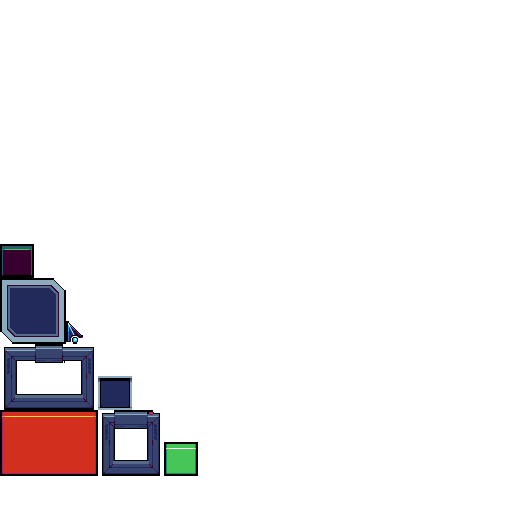
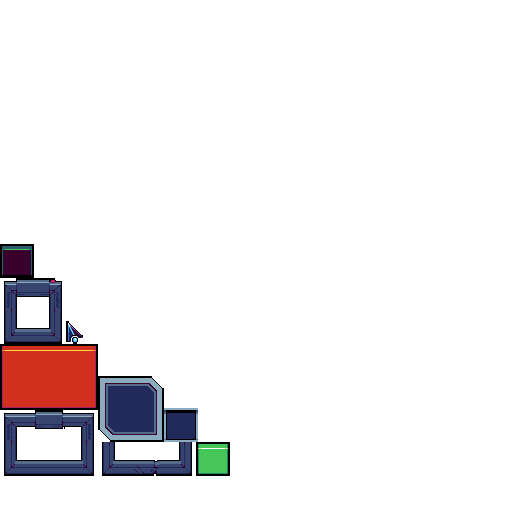
working score display

Changed region(s): [[0.0, 0.5312, 0.4688, 0.9375]]

diff --git a/frontend/core/src/main/java/pdg/game/Score.java b/frontend/core/src/main/java/pdg/game/Score.java
@@ -1,0 +1,202 @@
+package pdg.game;
+
+import com.badlogic.gdx.Gdx;
+import com.badlogic.gdx.graphics.Texture;
+import com.badlogic.gdx.graphics.g2d.NinePatch;
+import com.badlogic.gdx.scenes.scene2d.ui.Image;
+import com.badlogic.gdx.scenes.scene2d.ui.Label;
+import com.badlogic.gdx.scenes.scene2d.ui.Skin;
+import com.badlogic.gdx.scenes.scene2d.ui.Table;
+import com.badlogic.gdx.scenes.scene2d.ui.Window;
+import com.badlogic.gdx.scenes.scene2d.utils.NinePatchDrawable;
+
+public class Score extends Table {
+
+  private Window window;
+  private Table content;
+
+  private Image[] scoreDisplay1;
+  private Image[] scoreDisplay2;
+
+  private int scoreValue1 = 0;
+  private int scoreValue2 = 0;
+
+  private Texture scoreTexture;
+
+  private final int padding = 40;
+
+  public Score() {
+    this("Player1", "Player2", 2);
+  }
+
+  public Score(String p1, String p2, int width, int height, int nbManches) {
+    this(p1, p2, nbManches);
+    setSize(width, height);
+  }
+
+  public Score(String p1, String p2, int nbManches) {
+
+    // =========================
+    // SKIN
+    // =========================
+
+    Skin skin = new Skin(Gdx.files.internal("futuristic_ui/uiskin.json"));
+
+    // =========================
+    // WINDOW
+    // =========================
+
+    window = new Window("", skin, "score");
+    window.setMovable(false);
+
+    // =========================
+    // BACKGROUND
+    // =========================
+
+    Texture frameTexture =
+        new Texture(Gdx.files.internal("gui/frame_background/border_frame.9.png"));
+
+    NinePatch ninePatch = new NinePatch(frameTexture, 10, 10, 10, 10);
+
+    Table windowContent = new Table();
+    windowContent.setBackground(new NinePatchDrawable(ninePatch));
+
+    // =========================
+    // TABLES
+    // =========================
+
+    content = new Table();
+
+    Table players = new Table();
+    Table scores = new Table();
+
+    Table score1 = new Table();
+    Table score2 = new Table();
+
+    // =========================
+    // LABELS
+    // =========================
+
+    Label player1 = new Label(p1, skin);
+    Label player2 = new Label(p2, skin);
+    Label timer = new Label("0:00", skin);
+    Label vs = new Label("vs", skin);
+
+    // =========================
+    // SCORE IMAGES
+    // =========================
+
+    Texture emptyScoreTexture = new Texture(Gdx.files.internal("gui/bars/empty_bar.png"));
+
+    scoreTexture = new Texture(Gdx.files.internal("gui/bars/full_bar.png"));
+
+    scoreDisplay1 = new Image[nbManches];
+    scoreDisplay2 = new Image[nbManches];
+
+    for (int i = 0; i < nbManches; i++) {
+      scoreDisplay1[i] = new Image(emptyScoreTexture);
+      scoreDisplay2[i] = new Image(emptyScoreTexture);
+
+      score1.add(scoreDisplay1[i]).height(timer.getPrefHeight() * 2);
+
+      score2.add(scoreDisplay2[i]);
+    }
+
+    // =========================
+    // WIDTH
+    // =========================
+
+    float playerWidth = Math.max(player1.getPrefWidth(), player2.getPrefWidth());
+
+    float playersWidth = playerWidth * 2 + vs.getPrefWidth();
+
+    float scoresWidth =
+        scoreDisplay1.length * scoreDisplay1[0].getPrefWidth() * 2 + timer.getPrefWidth();
+
+    float requiredWidth = Math.max(playersWidth, scoresWidth) + padding;
+
+    // =========================
+    // PLAYERS
+    // =========================
+
+    players.add(player1).left().width(playerWidth);
+
+    players.add(vs).center().expandX();
+
+    players.add(player2).right().width(playerWidth);
+
+    players.setWidth(requiredWidth);
+
+    // =========================
+    // SCORES
+    // =========================
+
+    scores.add(score1).left().expandX();
+
+    scores.add(timer).center().expandX();
+
+    scores.add(score2).right().expandX();
+
+    scores.setWidth(requiredWidth);
+
+    // =========================
+    // CONTENT
+    // =========================
+
+    content.add(players).width(requiredWidth).top();
+
+    content.row();
+
+    content.add().height(20);
+
+    content.row();
+
+    content.add(scores).width(requiredWidth);
+
+    content.pack();
+
+    // =========================
+    // WINDOW
+    // =========================
+
+    windowContent.add(content).pad(10);
+
+    windowContent.setWidth(requiredWidth);
+    windowContent.pack();
+
+    window.add(windowContent).pad(-1);
+
+    window.setWidth(requiredWidth);
+    window.pack();
+
+    add(window);
+  }
+
+  public Window getWindow() {
+    return window;
+  }
+
+  public Table getContent() {
+    return content;
+  }
+
+  public void addScoreP1() {
+    if (scoreValue1 >= scoreDisplay1.length) {
+      return;
+    }
+
+    scoreDisplay1[scoreValue1].setDrawable(new Image(scoreTexture).getDrawable());
+
+    scoreValue1++;
+  }
+
+  public void addScoreP2() {
+    if (scoreValue2 >= scoreDisplay2.length) {
+      return;
+    }
+
+    scoreDisplay2[scoreValue2].setDrawable(new Image(scoreTexture).getDrawable());
+
+    scoreValue2++;
+  }
+}

diff --git a/frontend/core/src/main/java/pdg/game/FirstScreen.java b/frontend/core/src/main/java/pdg/game/FirstScreen.java
@@ -18,7 +18,9 @@ public class FirstScreen implements Screen {
   private Stage stage;
   private Skin skin;
   Frame frame;
+  Score score;
   boolean isVisible = true;
+  private float timer = 0f;
 
   public FirstScreen(final Main game) {
     this.game = game;
@@ -53,37 +55,37 @@ public class FirstScreen implements Screen {
 
     Skin skin = new Skin(Gdx.files.internal("futuristic_ui/uiskin.json"));
 
-    System.out.println("Skin loaded: " + skin);
     TextButton button1 = new TextButton("cancel", skin, "red");
     TextButton button2 = new TextButton("accept", skin, "green");
-    Gdx.app.log("FirstScreen", "Buttons created: " + button1 + ", " + button2);
     button1.setSize(100, 30);
     button2.setSize(100, 30);
-    Gdx.app.log(
-        "FirstScreen",
-        "Buttons sized: "
-            + button1.getWidth()
-            + "x"
-            + button1.getHeight()
-            + ", "
-            + button2.getWidth()
-            + "x"
-            + button2.getHeight());
     frame = new Frame(button1, button2, 400, 300, "Connection");
     frame.getContent().add(new TextField("username", skin));
     frame.setPosition(
         Gdx.graphics.getWidth() / 2f - frame.getWidth() / 2f,
         Gdx.graphics.getHeight() / 2f - frame.getHeight() / 2f);
     stage.addActor(frame);
+
+    score = new Score("henri", "xxPaulgamerXX", 10);
+    score.setPosition(
+        stage.getWidth() / 2f - score.getWidth() / 2f, stage.getHeight() - score.getHeight());
+    stage.addActor(score);
+    score.addScoreP1();
   }
 
   @Override
   public void render(float delta) {
 
+    timer += delta;
+    if (timer >= 1f) {
+      score.addScoreP1();
+      score.addScoreP2();
+      timer = 0;
+    }
     ScreenUtils.clear(0, 0, 0, 1);
-    if (isVisible){
-    stage.act(delta);
-    stage.draw();
+    if (isVisible) {
+      stage.act(delta);
+      stage.draw();
     }
   }
 
@@ -94,15 +96,15 @@ public class FirstScreen implements Screen {
 
     if (frame.getWidth() > width || frame.getHeight() > height) {
       isVisible = false;
-    }
-    else
-    {
+    } else {
       isVisible = true;
     }
     frame.setPosition(
-    Gdx.graphics.getWidth() / 2f - frame.getWidth() / 2f,
-    Gdx.graphics.getHeight() / 2f - frame.getHeight() / 2f);
-    
+        Gdx.graphics.getWidth() / 2f - frame.getWidth() / 2f,
+        Gdx.graphics.getHeight() / 2f - frame.getHeight() / 2f);
+
+    score.setPosition(
+        stage.getWidth() / 2f - score.getWidth() / 2f, stage.getHeight() - score.getHeight());
   }
 
   @Override

diff --git a/frontend/core/src/main/java/pdg/game/Frame.java b/frontend/core/src/main/java/pdg/game/Frame.java
@@ -15,7 +15,7 @@ public class Frame extends Table {
   private Button button1, button2;
   private Window window;
   private Table content;
-  
+
   public Frame() {
     this(new Button(), new Button(), 400, 300, "Frame Title");
   }
@@ -45,7 +45,9 @@ public class Frame extends Table {
     // =========================
 
     TiledDrawable backgroundTexture =
-        new TiledDrawable(new TextureRegion(new Texture(Gdx.files.internal("Frame_56.png"))));
+        new TiledDrawable(
+            new TextureRegion(
+                new Texture(Gdx.files.internal("gui/frame_background/base_frame.png"))));
 
     content = new Table();
     Table window_content = new Table();
@@ -77,7 +79,6 @@ public class Frame extends Table {
 
     this.button1 = button1;
     this.button2 = button2;
-    
   }
 
   public Button getButton1() {
@@ -95,5 +96,4 @@ public class Frame extends Table {
   public Table getContent() {
     return content;
   }
-  
 }
